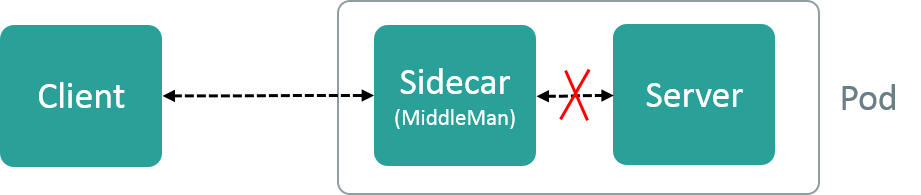
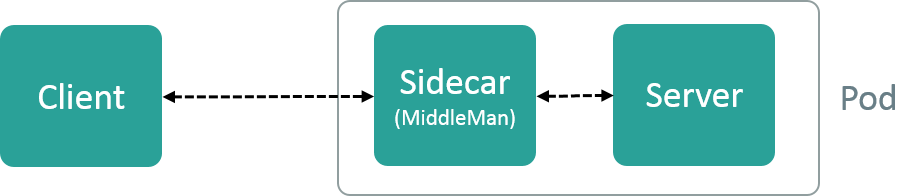
update tcp-handshake-in-modern-network-infra.md

diff --git a/_posts/2019-10-11-tcp-handshake-in-modern-network-infra.md b/_posts/2019-10-11-tcp-handshake-in-modern-network-infra.md
@@ -1,6 +1,6 @@
 ---
 layout    : post
-title     : "Behind the TCP Handshakes in Modern Networking Infrastructures"
+title     : "Beneath the TCP Handshakes in Modern Networking Infrastructures"
 date      : 2019-10-11
 lastupdate: 2019-10-11
 categories: tcp handshake service-mesh istio
@@ -19,7 +19,14 @@ networking infrastructure, modern networking falicities in these platforms make
 TCP related problems even more complicated. In traditional views, those problems
 may look fairly weired.
 
-This article will show two of such scenarios.
+This article will show two of such scenarios. What's your ideas when seeing
+below two pictures?
+
+<p align="center"><img src="/assets/img/tcp-handshake-in-modern-network-infra/1-1.png" width="30%" height="30%"></p>
+<p align="center">Problematic TCP stream of scenario 1</p>
+
+<p align="center"><img src="/assets/img/tcp-handshake-in-modern-network-infra/2-1.png" width="30%" height="30%"></p>
+<p align="center">Problematic TCP stream of scenario 2</p>
 
 # 1. Scenario 1
 
@@ -27,7 +34,8 @@ This article will show two of such scenarios.
 
 Client initiated a connection to server, server immediately acked
 (SYN+ACK), but client reset this packet on receiving it, and kept waiting
-for next SYN+ACK from server.
+for next SYN+ACK from server. After many times of restransmit and reset, the
+connection finally timed out.
 
 ## 1.2 Capture
 
@@ -60,6 +68,11 @@ Let's try to understand what's happend in depth:
 5. `#5`: server acked `#4` (still SYN+ACK)
 6. `#6`: client rejected again (`#5`, SYN+ACK)
 
+The time sequence of this TCP stream is re-depicted here:
+
+<p align="center"><img src="/assets/img/tcp-handshake-in-modern-network-infra/1-1.png" width="30%" height="30%"></p>
+<p align="center">Fig. 1.1 The problematic TCP stream</p>
+
 At first look, this seems fairly strange, because server acked client's request,
 while client immediately reset this packet on receiving, then kept waiting for next
 SYN+ACK from server (instead of closing this connecting attempt). It
@@ -85,8 +98,8 @@ First of all, we are in a Cilium powered K8S cluster.
 Cilium will generate BPF rules to load balance the traffics to this VIP
 to all its backend Pods. The normal traffic path looks like Fig 1.1:
 
-<p align="center"><img src="/assets/img/tcp-handshake-in-modern-network-infra/1-1.png" width="70%" height="70%"></p>
-<p align="center">Fig. 1.1 Normal data flow between client and server instances</p>
+<p align="center"><img src="/assets/img/tcp-handshake-in-modern-network-infra/1-2.png" width="70%" height="70%"></p>
+<p align="center">Fig. 1.2 Normal data flow between client and server instances</p>
 
 1. @Client: client sends traffic to server `VIP`
 2. @ClientHost: Cilium does DNAT, change VIP to one of its `PodIP` (backend
@@ -103,8 +116,8 @@ to all its backend Pods. The normal traffic path looks like Fig 1.1:
 The problem arises when **client and server are on the same host**, in which
 case, **step 6 is not implemented by Cilium**, as shown in Fig 1.2:
 
-<p align="center"><img src="/assets/img/tcp-handshake-in-modern-network-infra/1-2.png" width="45%" height="45%"></p>
-<p align="center">Fig. 1.2 Data flow when client and server are on the same host</p>
+<p align="center"><img src="/assets/img/tcp-handshake-in-modern-network-infra/1-3.png" width="45%" height="45%"></p>
+<p align="center">Fig. 1.3 Data flow when client and server are on the same host</p>
 
 We have reported this problem and it is confirmed a bug, see [this
 issue](https://github.com/cilium/cilium/issues/9285) for more details.
@@ -139,12 +152,17 @@ Again, it's worth to think about this before proceed on.
 5. `#5`: server acked `#4`
 6. `#6`: server reset this connection right after `#5`
 
+The time sequence of this TCP stream is re-depicted here:
+
+<p align="center"><img src="/assets/img/tcp-handshake-in-modern-network-infra/2-1.png" width="30%" height="30%"></p>
+<p align="center">Fig. 2.1 Time sequence of the problematic TCP stream</p>
+
 ## 2.4 Root Cause
 
 Client sees a topology like Fig 2.1:
 
-<p align="center"><img src="/assets/img/tcp-handshake-in-modern-network-infra/2-1.png" width="55%" height="55%"></p>
-<p align="center">Fig. 2.1 Client view of the two sides</p>
+<p align="center"><img src="/assets/img/tcp-handshake-in-modern-network-infra/2-2.png" width="40%" height="40%"></p>
+<p align="center">Fig. 2.2 Client view of the two sides</p>
 
 It initiated an connection, which got accepted by server succesfully, namely,
 the 3-way handshake finished withouth any error. But on transmitting data,
@@ -175,8 +193,8 @@ server directly, but **split into 2 separate connections**:
 Those two connections are independently handshaked, thus even if the latter
 failed, the former could still be succesful.
 
-<p align="center"><img src="/assets/img/tcp-handshake-in-modern-network-infra/2-2.png" width="55%" height="55%"></p>
-<p align="center">Fig. 2.2 Actual view of the two sides: a middleman sits between client and server</p>
+<p align="center"><img src="/assets/img/tcp-handshake-in-modern-network-infra/2-3.png" width="55%" height="55%"></p>
+<p align="center">Fig. 2.3 Actual view of the two sides: a middleman sits between client and server</p>
 
 This is what exactly happened: server failed to start due to some internal
 errors, but the connection between client and sidecar was established. When
@@ -185,8 +203,8 @@ forwarded this to (the failed) server, and got rejected. It then realized that
 the backend service was not available, so closed (RST) the connection between
 itself and the client.
 
-<p align="center"><img src="/assets/img/tcp-handshake-in-modern-network-infra/2-3.png" width="55%" height="55%"></p>
-<p align="center">Fig. 2.3 Connection between sidecar and server not established</p>
+<p align="center"><img src="/assets/img/tcp-handshake-in-modern-network-infra/2-4.png" width="55%" height="55%"></p>
+<p align="center">Fig. 2.4 Connection between sidecar and server not established</p>
 
 # 3. Closing Remarks
 
